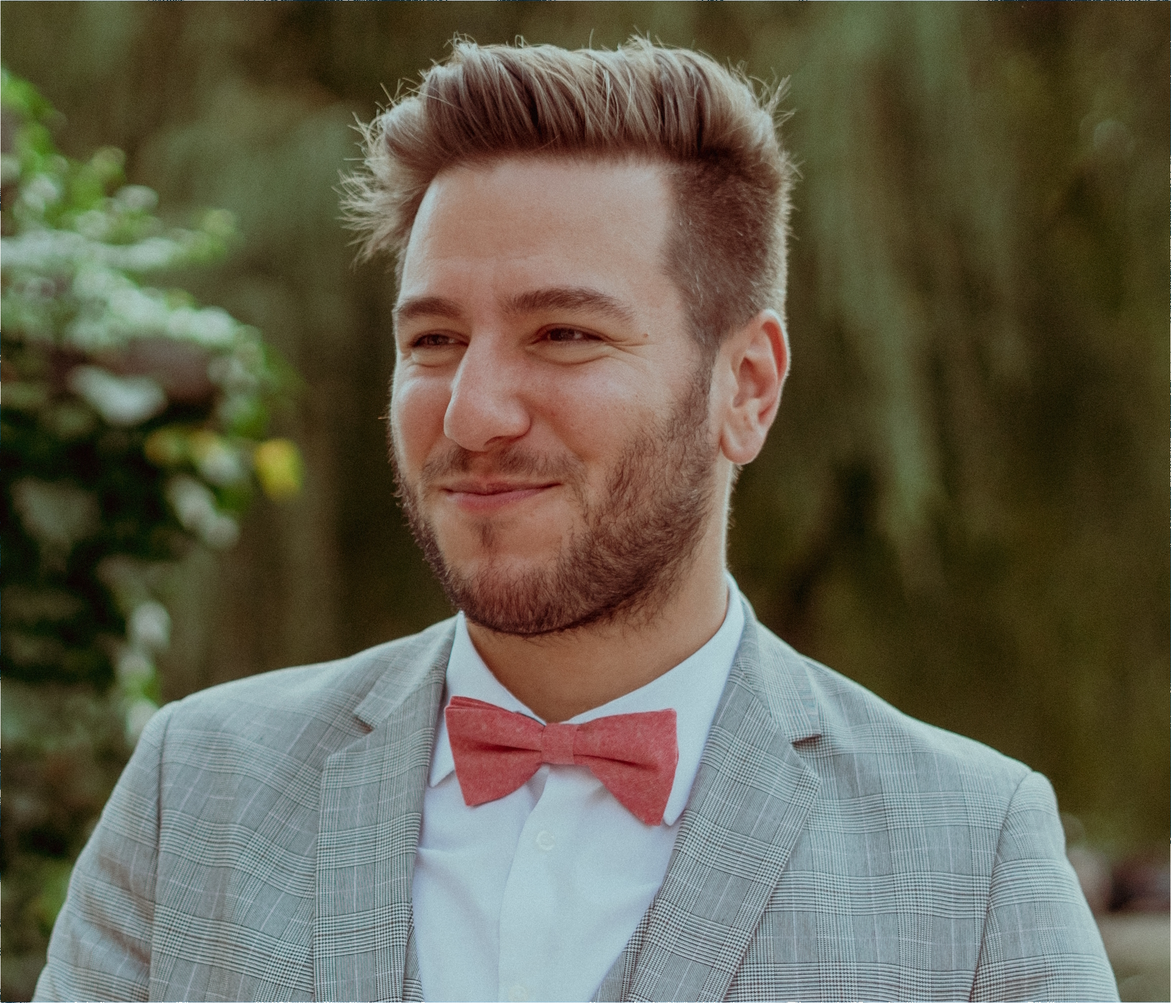
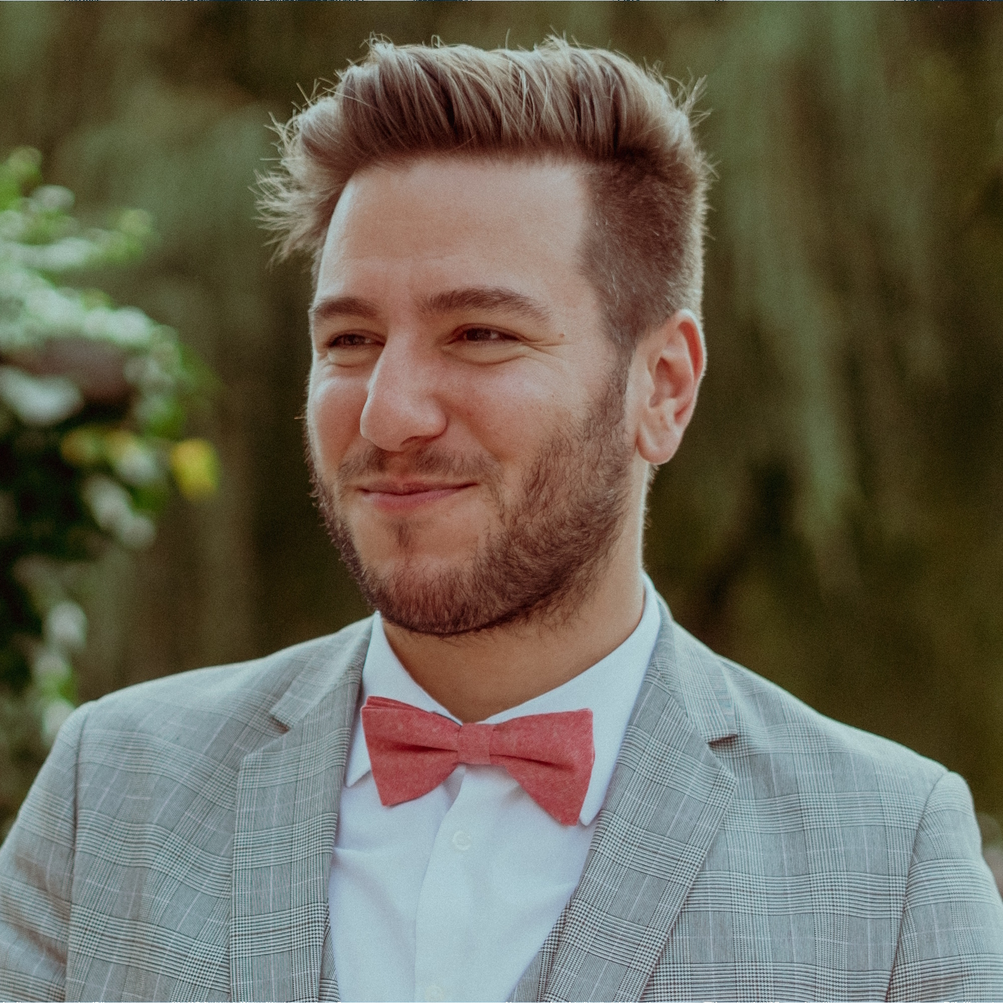
test

diff --git a/Website/styles.css b/Website/styles.css
@@ -49,8 +49,8 @@ body {
     justify-content: center;
     margin: 0;
     padding: 0;
+    width: 100vw;
     width: 100%;
-    min-height: 100vh;
     font-family: 'Montserrat', sans-serif;
     background-color: #fff;
 }
@@ -70,7 +70,7 @@ div#container {
 header {
     display: flex;
     flex-direction: row;
-    width: 100%;
+    max-width: 100%;
     height: 25vw;
     max-height: 250px;
     margin-bottom: 2rem;
@@ -79,14 +79,16 @@ header {
 /* Left side header ------------------------------------- */
 
 header #header-left-div {
-    padding: var(--line-width-profile);
+    border: var(--line-width-profile) solid var(--main-color);
     background-color: var(--main-color);
+    width: fit-content;
 }
 
 /* Elias Ferket Photo */
 
 #header-left-div #elias-ferket-img {
     height: 100%;
+    width: auto;
 }
 
 /* Right side header ------------------------------------ */
@@ -132,6 +134,7 @@ header #header-right-div {
     #header-right-div #header-text-div {
         padding-bottom: 10px;
     }
+
     #title-div .title-text {
         font-size: 48px;
     }
@@ -192,6 +195,7 @@ header #header-right-div {
         height: 50px;
         width: 50px;
     }
+
     #header-nav #projects {
         height: 30px;
         padding: 10px 20px;
@@ -203,10 +207,12 @@ header #header-right-div {
     #title-div .title-text {
         font-size: 36px;
     }
+
     #header-nav #linkedIn {
         height: 41px;
         width: 41px;
     }
+
     #header-nav #projects {
         height: 25px;
         padding: 8px 12px;
